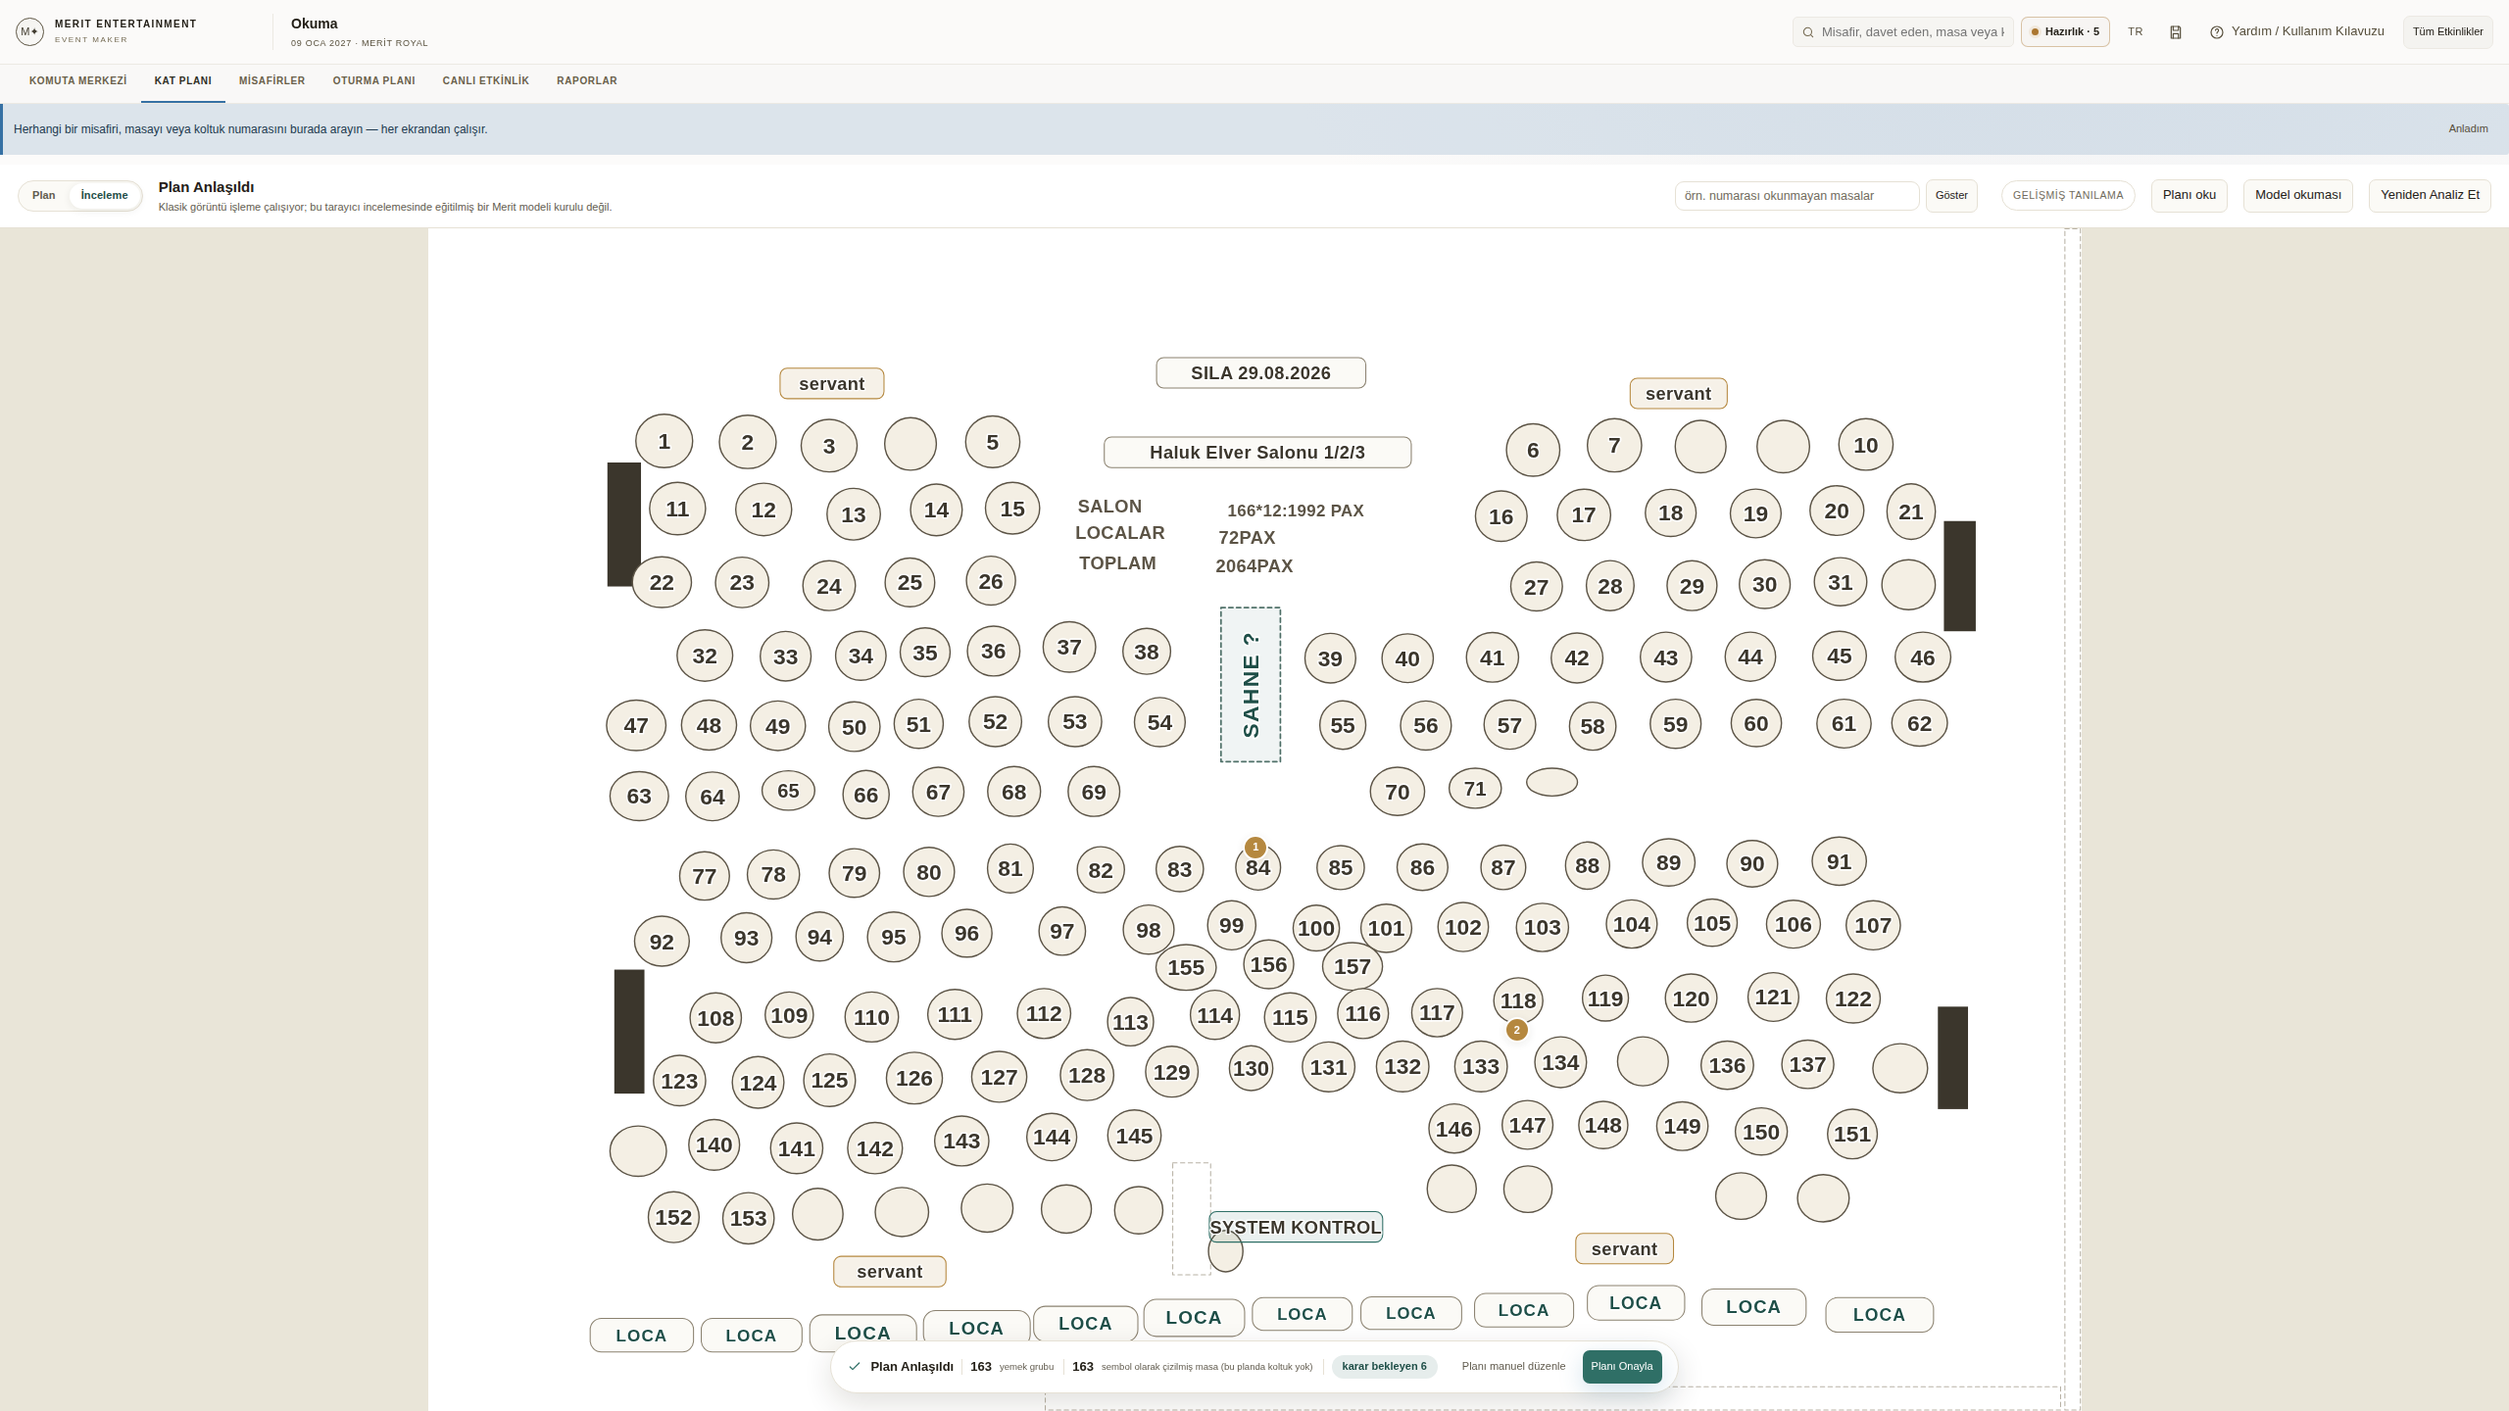
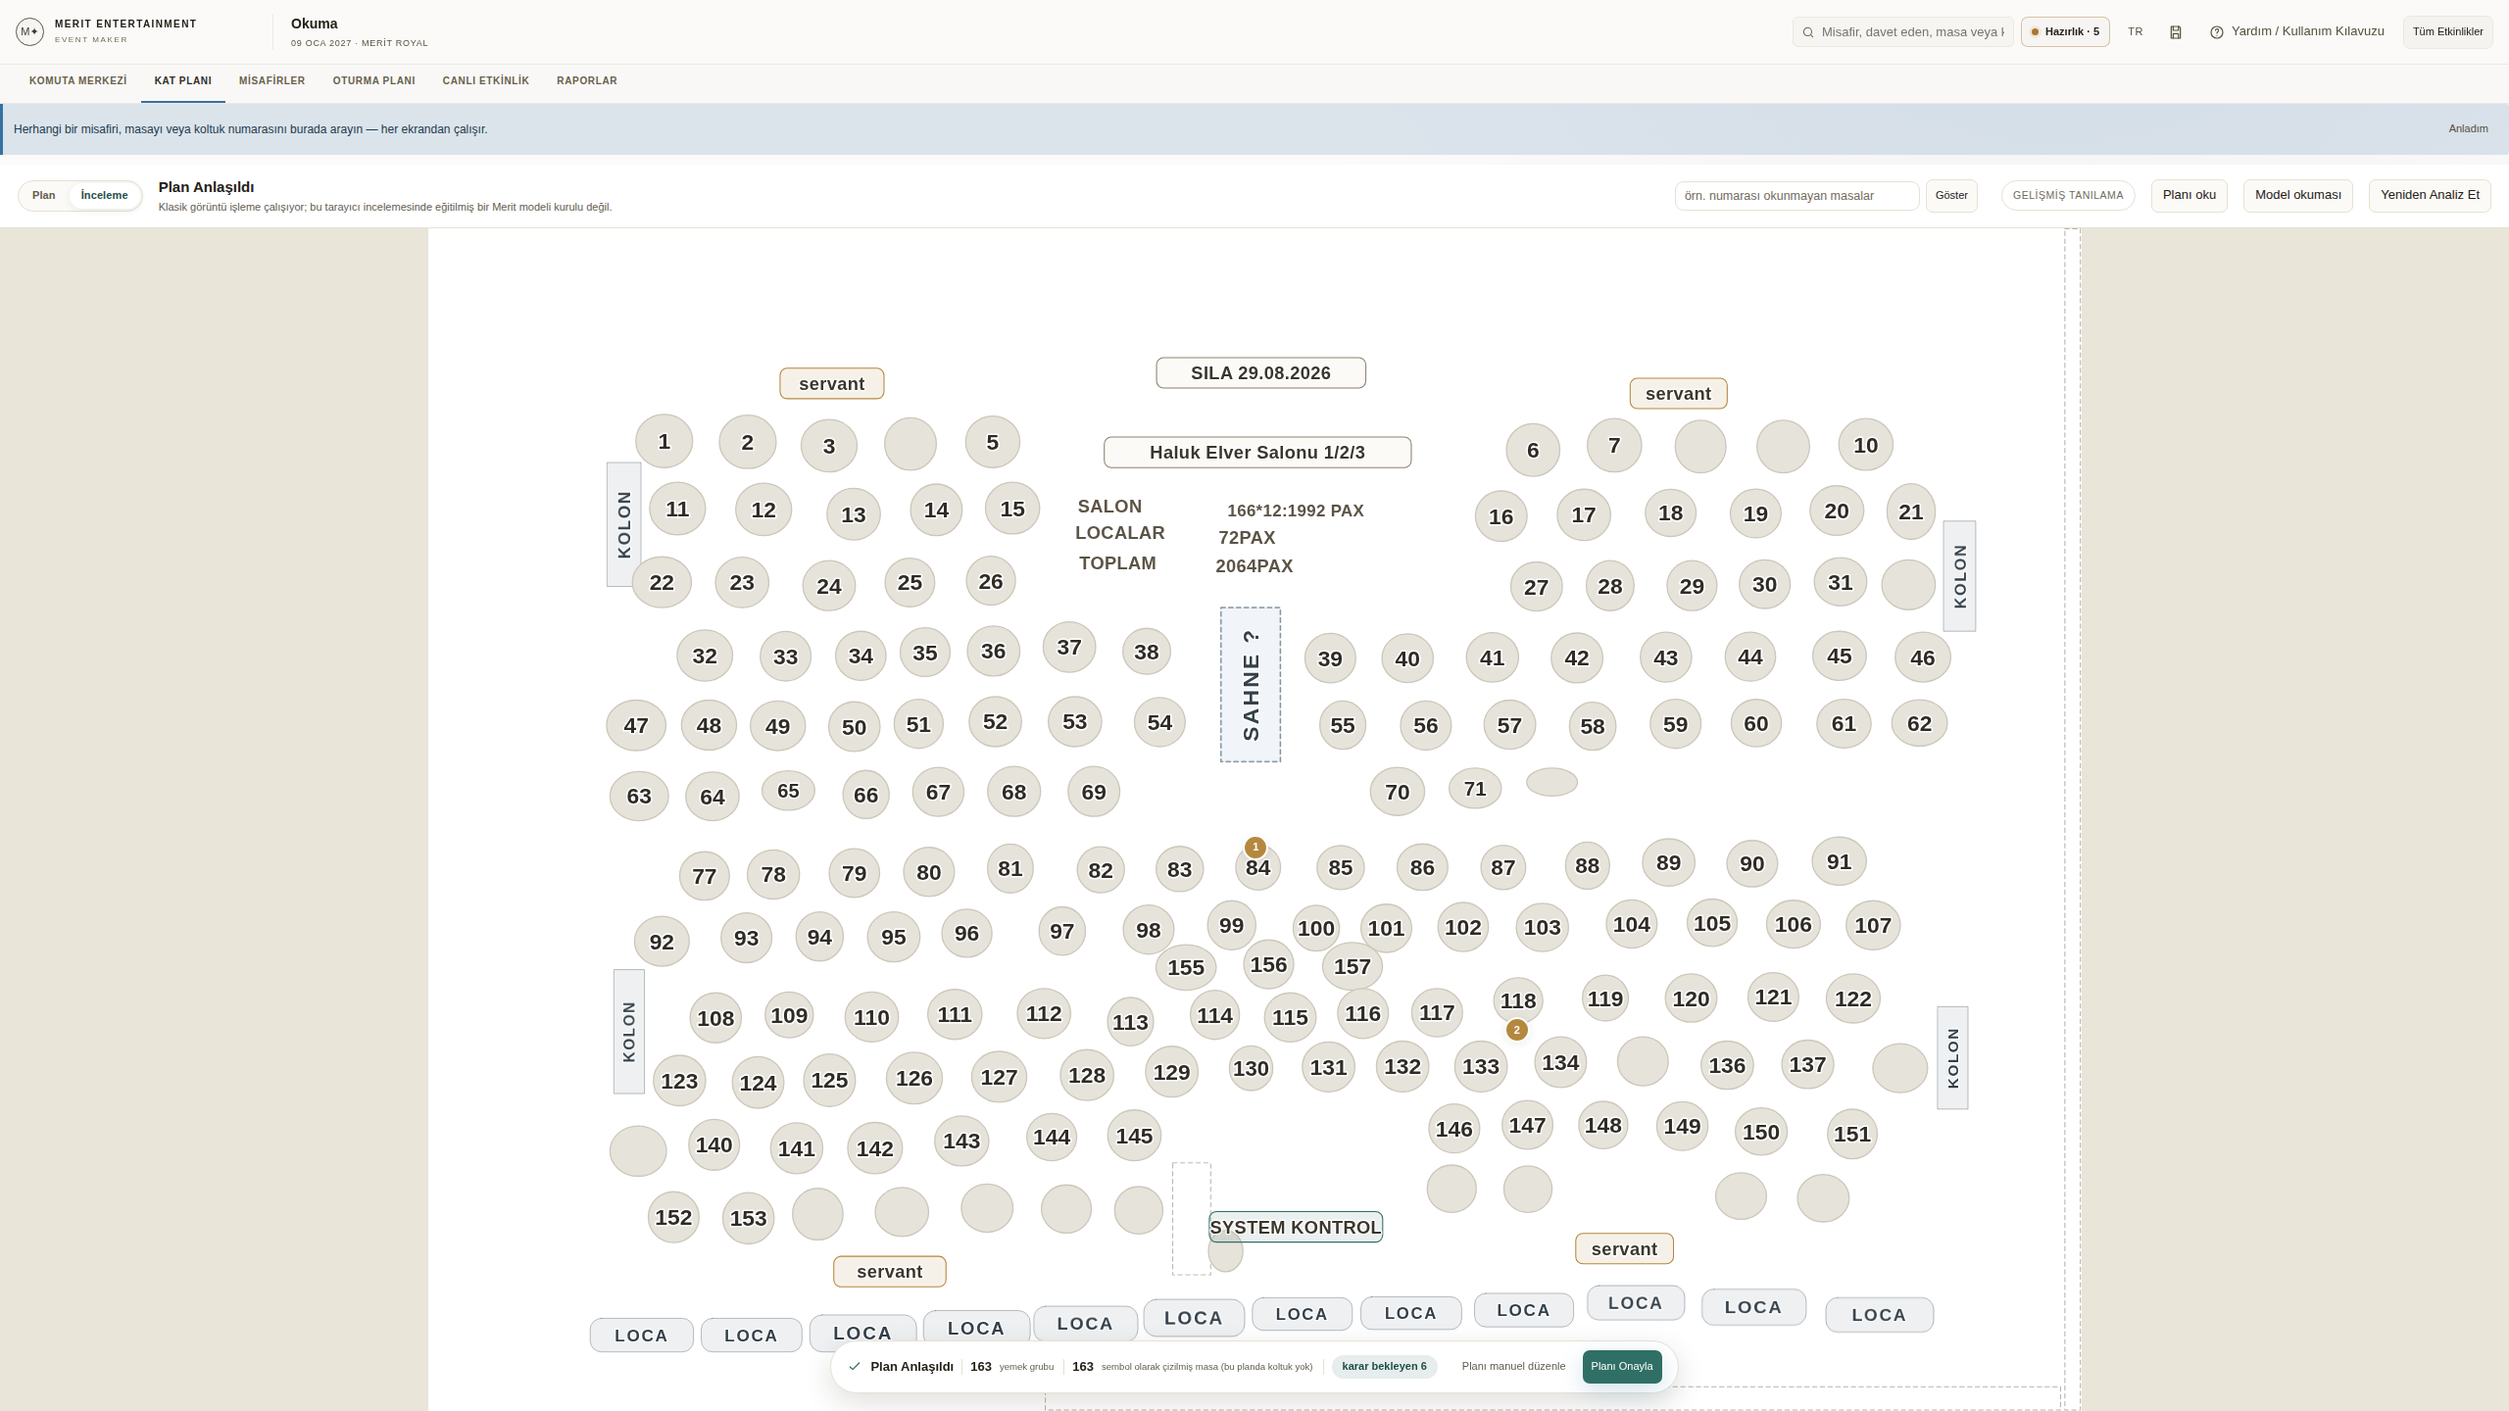
Digital view in the Floor Plan's own colours; Hide original plan works on the first press
The review's Digital view was a second drawing of the room with a palette of
its own: cream tables with dark outlines, teal chairs, black columns. After
Confirm the same tables appeared on the Floor Plan grey, with slate-outlined
chairs and labelled room objects, so the room looked like two different
products. The Floor Plan's furniture colours are now tokens (--fp-table,
--fp-chair, --fp-venue, --fp-stage and their lines/ink) used by both the
canvas (values unchanged) and the Digital view. Columns and banquettes carry
their names, as on the Floor Plan. Chairs keep the size the plan drew them,
so they sit on the scan in Both; the Floor Plan keeps its standard symbol.

Hide original plan flipped background.visible and saved but never rendered:
the scan stayed on the canvas and the button kept saying Hide until some
other action re-rendered. It renders now. floor-plan-modes checks the
rendered layer and the button label over two presses (fails without the
render: stored false, still shown, same label).

Screens regenerated at 1920/2560/1440, no console errors; Digital vs Floor
Plan comparison added. Offline package verify 42/42.

Claude-Session: https://claude.ai/code/session_01Ak6diUNXKQisc6dYh4daPW

diff --git a/src/styles.css b/src/styles.css
@@ -1,4 +1,9 @@
 :root{
+  /* The Floor Plan's own furniture. The review's Digital view draws with the
+     same values, so the room looks the same before and after Confirm. */
+  --fp-table:#e6e3db;--fp-table-line:#cdc7ba;--fp-chair:#f4f1eb;--fp-chair-line:#75808a;
+  --fp-venue:rgba(92,110,125,.1);--fp-venue-line:rgba(62,74,84,.4);--fp-venue-ink:#34404a;
+  --fp-stage:rgba(81,123,162,.12);--fp-stage-line:rgba(61,101,137,.58);
   --shell:#fbfbf9;--chrome:#f9f8f7;--panel:#f7f6f4;--panel-2:#f5f4f0;--panel-3:#f3f1ed;
   /* --muted-2 was #7c7259 -> 4.41:1 on --panel, just under the 4.5 AA floor,
      and it colours every eyebrow, column header and secondary tag in the app. */
@@ -255,15 +260,15 @@ table{border-collapse:collapse}
 .canvas-world.grid-on{background-image:linear-gradient(rgba(234,231,225,.09) 1px,transparent 1px),linear-gradient(90deg,rgba(234,231,225,.09) 1px,transparent 1px);background-size:20px 20px}
 .reference-layer{position:absolute;inset:0;z-index:0;pointer-events:none;background-position:center;background-repeat:no-repeat}
 
-.venue-object{position:absolute;z-index:3;display:flex;align-items:center;justify-content:center;border:1px solid rgba(62,74,84,.4);background:rgba(92,110,125,.1);color:#34404a;font-size:10px;font-weight:650;letter-spacing:.1em;user-select:none;transition:box-shadow var(--dur-fast) var(--ease)}
-.venue-object.stage{border:2px solid rgba(61,101,137,.58);background:rgba(81,123,162,.12)}
+.venue-object{position:absolute;z-index:3;display:flex;align-items:center;justify-content:center;border:1px solid var(--fp-venue-line);background:var(--fp-venue);color:var(--fp-venue-ink);font-size:10px;font-weight:650;letter-spacing:.1em;user-select:none;transition:box-shadow var(--dur-fast) var(--ease)}
+.venue-object.stage{border:2px solid var(--fp-stage-line);background:var(--fp-stage)}
 .venue-object.text,.venue-object.entrance,.venue-object.exit{border-style:dashed;background:rgba(253,253,252,.5)}
 
 .table-object{position:absolute;z-index:10;user-select:none;cursor:move;touch-action:none;transition:opacity var(--dur-base) var(--ease),filter var(--dur-base) var(--ease)}
 .seating-canvas .table-object{cursor:pointer}
 .table-object.dimmed{opacity:.19}
 .table-object.filter-match{filter:drop-shadow(0 0 5px rgba(61,116,164,.32))}
-.table-surface{position:absolute;left:19%;top:25%;width:62%;height:50%;display:flex;flex-direction:column;align-items:center;justify-content:center;border:1.5px solid #cdc7ba;background:#e6e3db;box-shadow:0 1px 2px rgba(38,32,20,.10);line-height:1;transition:box-shadow var(--dur-fast) var(--ease)}
+.table-surface{position:absolute;left:19%;top:25%;width:62%;height:50%;display:flex;flex-direction:column;align-items:center;justify-content:center;border:1.5px solid var(--fp-table-line);background:var(--fp-table);box-shadow:0 1px 2px rgba(38,32,20,.10);line-height:1;transition:box-shadow var(--dur-fast) var(--ease)}
 .table-object:hover .table-surface{box-shadow:0 2px 6px rgba(38,32,20,.16)}
 .table-object.round .table-surface,.table-object.bistro .table-surface{left:23%;top:18%;width:54%;height:64%;border-radius:50%}
 .table-object.square .table-surface{left:22%;top:18%;width:56%;height:64%}
@@ -271,7 +276,7 @@ table{border-collapse:collapse}
 .table-label{font-size:10px;font-weight:760;letter-spacing:.035em}
 .table-occ{margin-top:4px;color:#59646d;font-size:8px;font-weight:650}
 .table-empty{margin-top:3px;color:#7a6244;font-size:6px;font-weight:700;letter-spacing:.04em}
-.chair{position:absolute;width:14px;height:11px;transform:translate(-50%,-50%);border:1px solid #75808a;border-radius:3px 3px 2px 2px;background:#f4f1eb;box-shadow:0 1px 1px rgba(0,0,0,.13);transition:background var(--dur-fast) var(--ease),border-color var(--dur-fast) var(--ease)}
+.chair{position:absolute;width:14px;height:11px;transform:translate(-50%,-50%);border:1px solid var(--fp-chair-line);border-radius:3px 3px 2px 2px;background:var(--fp-chair);box-shadow:0 1px 1px rgba(0,0,0,.13);transition:background var(--dur-fast) var(--ease),border-color var(--dur-fast) var(--ease)}
 .chair::after{content:"";position:absolute;left:2px;right:2px;bottom:-3px;height:2px;background:#78828b;border-radius:0 0 2px 2px}
 /* A detected chair whose front the drawing did not show: no front mark. */
 .chair.facing-unknown{border-radius:2px}
@@ -2308,20 +2313,18 @@ button.mx-metric:focus-visible{outline:none;box-shadow:var(--ring);z-index:1}
 .view-digital .candidate-box:not(.selected),.view-both .candidate-box:not(.selected){border-color:transparent;background:transparent}
 .dg-paper{fill:var(--pi-surface)}
 .view-both .dg-paper{fill:transparent}
-.dg-table{fill:#f4efe4;stroke:#5c5446;stroke-width:1.6}
-.dg-chair{fill:rgba(47,111,102,.16);stroke:var(--pi-accent);stroke-width:1}
-.dg-stage{fill:rgba(47,111,102,.10);stroke:var(--pi-accent-strong);stroke-width:2}
-.dg-column{fill:#3b362c;stroke:none}
-.dg-banquette{fill:#e6dfd0;stroke:#8b8270;stroke-width:1.2}
-.dg-bar{fill:#ece6da;stroke:#6f6758;stroke-width:1.4}
-.dg-loca{fill:var(--pi-surface-2);stroke:#8b8270;stroke-width:1.2}
-.dg-entrance,.dg-exit{fill:rgba(181,136,63,.14);stroke:var(--pi-warn);stroke-width:1.4}
-.dg-chair.dg-chair{opacity:1}
+/* Tables, chairs and room objects in the Floor Plan's own colours (--fp-*):
+   what is drawn here is what Confirm puts on the Floor Plan, and it looks it */
+.dg-table{fill:var(--fp-table);stroke:var(--fp-table-line);stroke-width:1.5}
+.dg-chair{fill:var(--fp-chair);stroke:var(--fp-chair-line);stroke-width:1}
+.dg-stage{fill:var(--fp-stage);stroke:var(--fp-stage-line);stroke-width:2}
+.dg-column,.dg-banquette,.dg-bar,.dg-loca{fill:var(--fp-venue);stroke:var(--fp-venue-line);stroke-width:1}
+.dg-entrance,.dg-exit{fill:rgba(253,253,252,.5);stroke:var(--fp-venue-line);stroke-width:1;stroke-dasharray:5 4}
 .dg-other{fill:none;stroke:#9a917f;stroke-width:1.2;stroke-dasharray:5 4}
 .dg-held{stroke-dasharray:5 4;opacity:.7}
 .dg-group{fill:none;stroke:var(--pi-accent);stroke-width:1.6;stroke-dasharray:6 4}
-.dg-label{fill:var(--pi-accent-strong);font-weight:700;letter-spacing:.06em;text-anchor:middle;dominant-baseline:central;font-family:inherit}
-.dg-number{fill:#3b362c;font-weight:700;text-anchor:middle;dominant-baseline:central;font-family:inherit}
+.dg-label{fill:var(--fp-venue-ink);font-weight:650;letter-spacing:.1em;text-anchor:middle;dominant-baseline:central;font-family:inherit}
+.dg-number{fill:#2f2b25;font-weight:760;text-anchor:middle;dominant-baseline:central;font-family:inherit}
 .dg-badge{fill:var(--pi-accent-strong);font-weight:700;text-anchor:middle;dominant-baseline:central;font-family:inherit}
 .dg-badge-bg{fill:var(--pi-surface);stroke:var(--pi-accent);stroke-width:1.2}
 .dg-place rect{fill:rgba(181,136,63,.12);stroke:var(--pi-warn);stroke-width:1.2}

diff --git a/src/screen-reading.js b/src/screen-reading.js
@@ -168,7 +168,8 @@
       if (c.kind === "venue") {
         const cls = ["stage", "column", "banquette", "bar", "loca", "entrance", "exit", "chair"].includes(c.type) ? c.type : "other";
         out.push(`<rect class="dg-${cls}${held}" x="${X(c.x)}" y="${Y(c.y)}" width="${X(c.w)}" height="${Y(c.h)}" rx="${cls === "banquette" || cls === "loca" ? r1(Math.min(X(c.w), Y(c.h)) / 3) : 0}"${rot(c)}/>`);
-        if (["stage", "bar", "loca", "entrance", "exit"].includes(cls) && c.w > 3) out.push(label(c, typeWord(cls, 1).toLocaleUpperCase(ui.lang === "tr" ? "tr" : "en"), "dg-label"));
+        // Named, as the Floor Plan names them: a pale block alone does not say column.
+        if (["stage", "bar", "loca", "entrance", "exit", "column", "banquette"].includes(cls) && Math.max(c.w, c.h) > 3) out.push(label(c, typeWord(cls, 1).toLocaleUpperCase(ui.lang === "tr" ? "tr" : "en"), "dg-label"));
         continue;
       }
       if (c.kind !== "table") continue;

diff --git a/src/app-v8.js b/src/app-v8.js
@@ -1715,6 +1715,9 @@
         recordUndo(event);
         event.background.visible=!event.background.visible;
         touchEvent(event);
+        // touchEvent only saves: without a render the plan stayed on screen and
+        // the button kept saying "Hide", so the first press looked like nothing.
+        render();
       }else if(action==="replace-bg")document.getElementById("floorPlanFile").click();else if(action==="open-review-center"){
         ui.reviewCenterOpen=true;
         ui.tab="floor";

diff --git a/tests/README.md b/tests/README.md
@@ -107,7 +107,7 @@ if any check failed, any suite threw, or any suite saw a page error.
 | `symbolic-plan-detection` | intelligence | on a symbolic plan a detected family member fails to become a table — because it was drawn in solid ink, read as printing, or counted as the seat of an object that was then demoted |
 | `operator-session` | business | the operator's review session loses its place, its queue order, or its decisions |
 | `command-center` | business | readiness becomes a percentage, the header badge and the screen count different things, or a self-check finding reaches a Turkish operator in English |
-| `floor-plan-modes` | business | reviewing a plan costs the operator the workspace around it — the event's name, the tabs, the guest search — or the uploaded plan stops being the hero |
+| `floor-plan-modes` | business | reviewing a plan costs the operator the workspace around it — the event's name, the tabs, the guest search — or the uploaded plan stops being the hero, or Hide original plan needs a second press (or a re-render from elsewhere) to take the scan off the canvas |
 | `review-queue` | business | a ranked list of uncertainties stops becoming "this one, decide, next", or a settled item leaves the operator sitting on what they just settled |
 | `teach-number` | business | a number a person confirmed becomes indistinguishable from one two crops agreed on, or an unsafe scope is refused after the click instead of before |
 | `plan-doctor` | business | an uncertain OCR reading becomes a blocker, a finding has nowhere to go, a fixed problem lingers as a stale warning, or the pre-flight and the header disagree |

diff --git a/.claude/agents/frontend-architect.md b/.claude/agents/frontend-architect.md
@@ -50,8 +50,8 @@ commit as the change that moves it.
 | Fact | Value | How to re-measure |
 |---|---|---|
 | `src/*.js` files | **84** | `ls src/*.js \| wc -l` |
-| `src/` total lines | **29,256** | `wc -l src/*.js` |
-| `app-v8.js` | **5,138** lines (5,740 right after the detection extraction and 8,543 before it — history, in CLAUDE.md) | `wc -l src/app-v8.js` |
+| `src/` total lines | **29,260** | `wc -l src/*.js` |
+| `app-v8.js` | **5,141** lines (5,740 right after the detection extraction and 8,543 before it — history, in CLAUDE.md) | `wc -l src/app-v8.js` |
 | Longest single line in `app-v8.js` | **1,677** chars; **14** lines exceed 500 | `awk '{print length}' src/app-v8.js \| sort -rn \| head -1` |
 | `plan-detection-classical.js` | **225** lines — the orchestrator `detect()` over seven stage modules (Split A/B) | `wc -l src/plan-detection-classical.js` |
 | Files exporting `globalThis.Merit*` | **80** of **84** | `grep -l "globalThis.Merit" src/*.js \| wc -l` |

diff --git a/benchmarks/plan-reading/README.md b/benchmarks/plan-reading/README.md
@@ -42,6 +42,15 @@ over the scan. It draws:
 Teach it ("this block is the stage") and it is drawn as the stage and read back
 as yours.
 
+Tables, chairs and room objects are drawn in the Floor Plan's own colours.
+These are the shared `--fp-*` tokens in `src/styles.css`: what the review shows
+is what Confirm puts on the Floor Plan, and it looks it
+(`screens/digital-vs-floor-golden.png`). One difference is kept on purpose:
+the Digital view draws each chair at the size the plan drew it, so it sits on
+the scan's chair in Both. The Floor Plan uses its standard chair symbol.
+Until 2026-10-11 the Digital view used colours of its own: cream tables,
+teal chairs, dark columns.
+
 Close-ups, scan / digital / both: `screens/digital-tables-golden.png` and
 `screens/digital-tables-ornek.png`. Each chair is drawn on the chair the
 analysis found. Before 2026-10-11 every chair was drawn half its own size off
